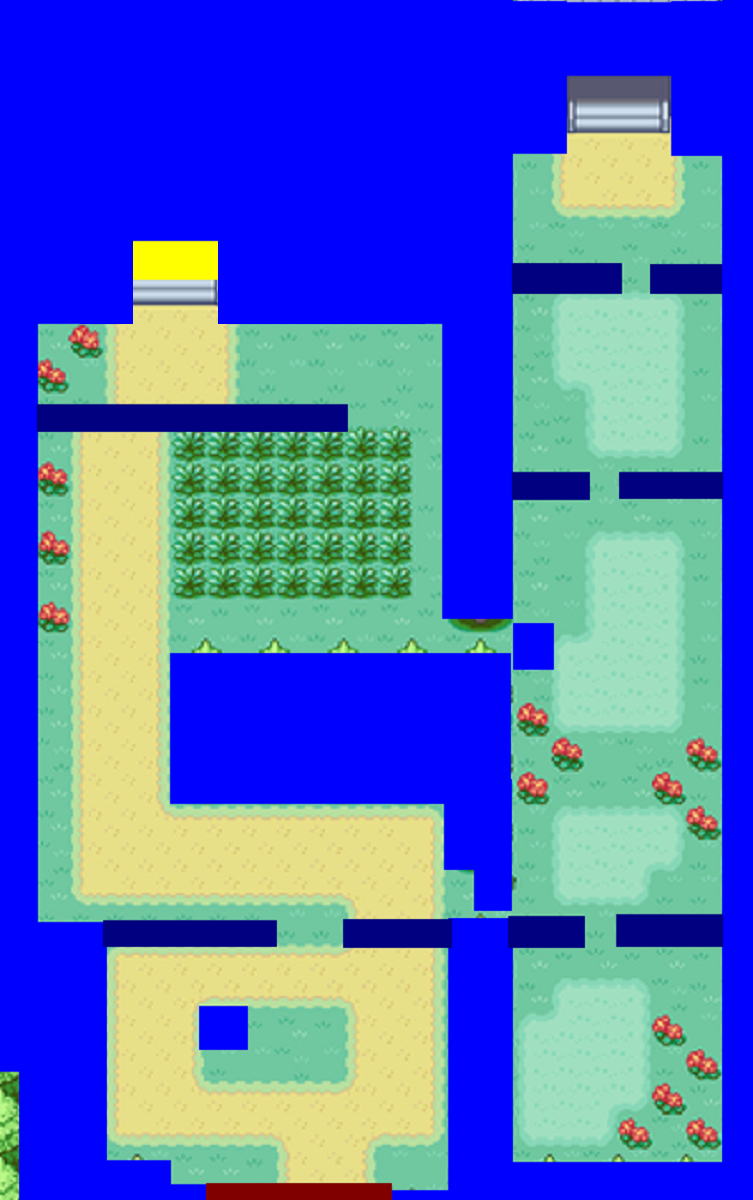
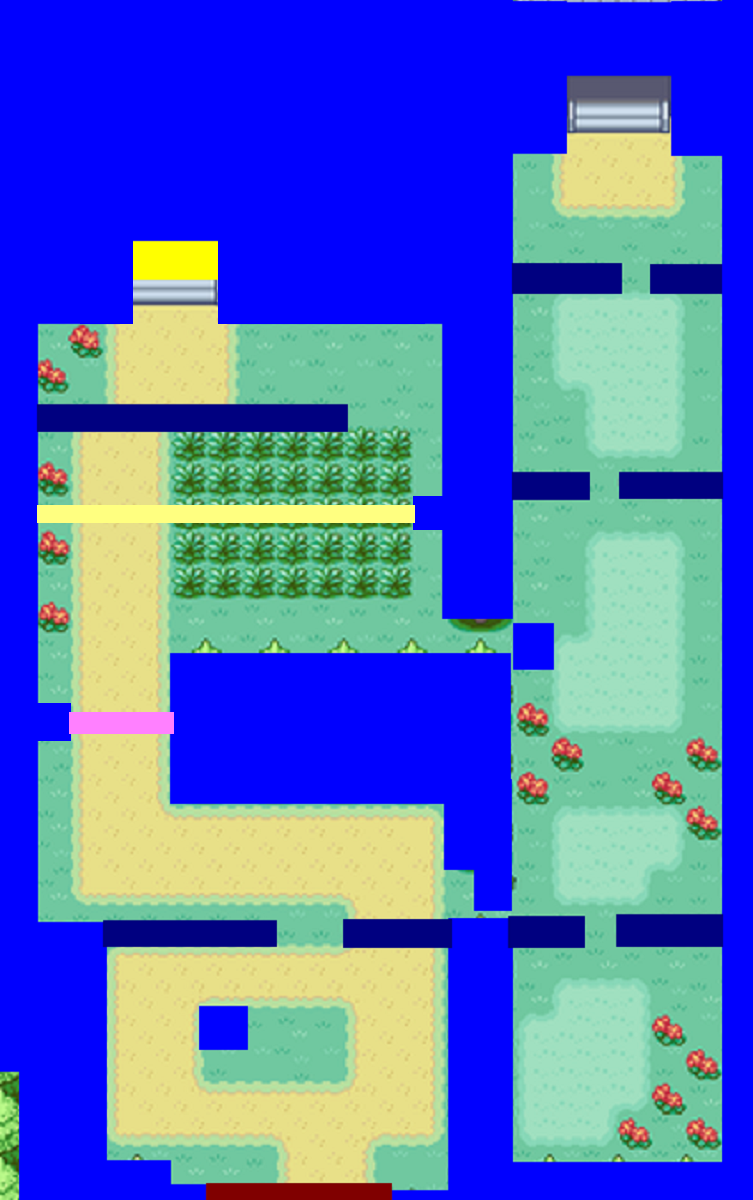
Added battle checks

Changed region(s): [[0.0305, 0.4008, 0.6109, 0.4625], [0.0305, 0.5858, 0.2444, 0.6167]]

diff --git a/src/MasseyMon.java b/src/MasseyMon.java
@@ -125,7 +125,7 @@ class GamePanel extends JPanel {
 	private boolean pokemon;
 	private boolean bag;
 	private boolean menu;
-	private boolean spacePressed,movable,talking,startGame;
+	private boolean spacePressed,movable,talking,startGame,hasStarter;
 	private int direction;
 	private boolean ready = true;
 	private static boolean mini,starter;
@@ -164,6 +164,7 @@ class GamePanel extends JPanel {
 		starterIndex = 0;
 		picIndex = 0;
 		miniPicIndex = -1;
+		hasStarter = false;
 		spacePressed = false;
 		pokemon = false;
 		bag = false;
@@ -243,7 +244,7 @@ class GamePanel extends JPanel {
 					startGame = false;
 				}
 			}
-
+			myGuy.draw(g);
 			if (picIndex == 0 && miniPicIndex == 1) {
 				if (Textbox.getTextWriting()) {
 					if (talking) {
@@ -265,6 +266,7 @@ class GamePanel extends JPanel {
 							g.drawImage(selectBox, 350, 250, this);
 							g.drawImage(starters[starterIndex], 420, 300, this);
 							movable = false;
+							hasStarter = true;
 						}
 					}
 				}
@@ -300,7 +302,6 @@ class GamePanel extends JPanel {
 					movable = true;
 				}
 			}
-			myGuy.draw(g);
 
 			if (movable) {
 				if (picIndex == 0 && miniPicIndex == 1) {
@@ -308,18 +309,17 @@ class GamePanel extends JPanel {
 				}
 				if (pokeCenter()) {
 					g.drawImage(MasseyMon.getTrainers(1).getSprite(), 462, 290, this);
+					myGuy.draw(g);
 				}
 				if (pokeShop()) {
 					g.drawImage(MasseyMon.getTrainers(2).getSprite(), 358, 350, this);
+					myGuy.draw(g);
 				}
 				if (pokeHouse()) {
 					g.drawImage(MasseyMon.getTrainers(npc1).getSprite(), 407, 385, this);
 					g.drawImage(MasseyMon.getTrainers(npc2).getSprite(), 612, 360, this);
+					myGuy.draw(g);
 				}
-
-			//	if (picIndex == 1 || picIndex == 3 || picIndex == 4 || picIndex == 5 || picIndex == 7 || picIndex == 9 || picIndex == 10 || picIndex == 11)
-				//	g.drawImage(MasseyMon.getBattleTrainers(picIndex, 0).getSprite(), MasseyMon.getBattleTrainers(picIndex, 0).getPositionX(), MasseyMon.getBattleTrainers(picIndex, 0).getPositionY(), this);
-				//g.drawImage(MasseyMon.getBattleTrainers(picIndex, 1).getSprite(), MasseyMon.getBattleTrainers(picIndex, 1).getPositionX(), MasseyMon.getBattleTrainers(picIndex, 1).getPositionY(), this);
 			}
 		}
 		else{
@@ -498,32 +498,32 @@ class GamePanel extends JPanel {
 						myGuy.setScreenY(MasseyMon.getMiniMap(picIndex, miniPicIndex).getStartPosY());
 						myGuy.setScreenX(MasseyMon.getMiniMap(picIndex, miniPicIndex).getStartPosX());
 					} else if (checkNextRoute(myGuy.getWorldX(), myGuy.getWorldY() - 1, myGuy.getWorldX() + 20, myGuy.getWorldY() - 1)) {
-						picIndex += 1;
-						myGuy.setWorldX(MasseyMon.getMap(picIndex).getStartPosX());
-						myGuy.setWorldY(MasseyMon.getMap(picIndex).getStartPosY());
-						if (MasseyMon.getMap(picIndex).getMapHeight() > 795) {
+						//if (hasStarter) {
+							picIndex += 1;
+							myGuy.setWorldX(MasseyMon.getMap(picIndex).getStartPosX());
+							myGuy.setWorldY(MasseyMon.getMap(picIndex).getStartPosY());
+							if (MasseyMon.getMap(picIndex).getMapHeight() > 795) {
 
-							if (myGuy.getWorldY() == 397 || myGuy.getWorldY() == 900 || myGuy.getWorldY() == 860) {
-								myGuy.setScreenY(398);
-							}
+								if (myGuy.getWorldY() == 397 || myGuy.getWorldY() == 900 || myGuy.getWorldY() == 860) {
+									myGuy.setScreenY(398);
+								} else if (myGuy.getWorldY() - 398 > 0 || myGuy.getWorldY() + 398 < MasseyMon.getMap(picIndex).getMapHeight()) {
+									myGuy.setScreenY(795 - (MasseyMon.getMap(picIndex).getMapHeight() - MasseyMon.getMap(picIndex).getStartPosY()));
 
-							else if (myGuy.getWorldY() - 398 > 0 || myGuy.getWorldY() + 398 < MasseyMon.getMap(picIndex).getMapHeight()) {
-								myGuy.setScreenY(795 - (MasseyMon.getMap(picIndex).getMapHeight() - MasseyMon.getMap(picIndex).getStartPosY()));
-
+								} else {
+									myGuy.setScreenY(795 - (MasseyMon.getMap(picIndex).getMapHeight() - MasseyMon.getMap(picIndex).getStartPosY()));
+								}
 							} else {
-								myGuy.setScreenY(795 - (MasseyMon.getMap(picIndex).getMapHeight() - MasseyMon.getMap(picIndex).getStartPosY()));
+								myGuy.setScreenY(MasseyMon.getMap(picIndex).getStartPosY());
 							}
-						} else {
-							myGuy.setScreenY(MasseyMon.getMap(picIndex).getStartPosY());
-						}
-						if (MasseyMon.getMap(picIndex).getMapWidth() > 956) {
-							if (myGuy.getWorldX() - 478 > 0 || myGuy.getWorldY() + 478 < MasseyMon.getMap(picIndex).getMapWidth()) {
-								myGuy.setScreenX(478);
+							if (MasseyMon.getMap(picIndex).getMapWidth() > 956) {
+								if (myGuy.getWorldX() - 478 > 0 || myGuy.getWorldY() + 478 < MasseyMon.getMap(picIndex).getMapWidth()) {
+									myGuy.setScreenX(478);
+								} else {
+									myGuy.setScreenX(956 - (MasseyMon.getMap(picIndex).getMapWidth() - MasseyMon.getMap(picIndex).getStartPosX()));
+								}
 							} else {
-								myGuy.setScreenX(956 - (MasseyMon.getMap(picIndex).getMapWidth() - MasseyMon.getMap(picIndex).getStartPosX()));
-							}
-						} else {
-							myGuy.setScreenX(MasseyMon.getMap(picIndex).getStartPosX());
+								myGuy.setScreenX(MasseyMon.getMap(picIndex).getStartPosX());
+						//	}
 						}
 					}
 					else if (checkPrevRoute(myGuy.getWorldX(), myGuy.getWorldY() - 1, myGuy.getWorldX() + 20, myGuy.getWorldY() - 1)) {
@@ -550,6 +550,21 @@ class GamePanel extends JPanel {
 						} else {
 							myGuy.setScreenX(MasseyMon.getMap(picIndex).getStartPosX7());
 						}
+					}
+					if (checkTrainer1(myGuy.getWorldX(), myGuy.getWorldY() - 1, myGuy.getWorldX() + 20, myGuy.getWorldY() - 1)){
+
+					}
+					if (checkTrainer2(myGuy.getWorldX(), myGuy.getWorldY() - 1, myGuy.getWorldX() + 20, myGuy.getWorldY() - 1)){
+
+					}
+					if (checkTrainer3(myGuy.getWorldX(), myGuy.getWorldY() - 1, myGuy.getWorldX() + 20, myGuy.getWorldY() - 1)){
+
+					}
+					if (checkTrainer4(myGuy.getWorldX(), myGuy.getWorldY() - 1, myGuy.getWorldX() + 20, myGuy.getWorldY() - 1)){
+
+					}
+					if (checkTrainer5(myGuy.getWorldX(), myGuy.getWorldY() - 1, myGuy.getWorldX() + 20, myGuy.getWorldY() - 1)){
+
 					}
 
 				} else if ((keys[KeyEvent.VK_DOWN] || keys[KeyEvent.VK_S]) && clear(myGuy.getWorldX(), myGuy.getWorldY() + 27, myGuy.getWorldX() + 19, myGuy.getWorldY() + 27) && (checkLedge(myGuy.getWorldX(), myGuy.getWorldY() + 27, myGuy.getWorldX() + 19, myGuy.getWorldY() + 27)
@@ -731,6 +746,19 @@ class GamePanel extends JPanel {
 							myGuy.setScreenX(MasseyMon.getMap(picIndex).getStartPosX());
 						}
 					}
+					if (checkTrainer1(myGuy.getWorldX(), myGuy.getWorldY() - 1, myGuy.getWorldX() + 20, myGuy.getWorldY() - 1)){
+
+					}
+					if (checkTrainer2(myGuy.getWorldX(), myGuy.getWorldY() - 1, myGuy.getWorldX() + 20, myGuy.getWorldY() - 1)){
+
+					}
+					if (checkTrainer4(myGuy.getWorldX(), myGuy.getWorldY() - 1, myGuy.getWorldX() + 20, myGuy.getWorldY() - 1)){
+
+					}
+					if (checkTrainer6(myGuy.getWorldX(), myGuy.getWorldY() - 1, myGuy.getWorldX() + 20, myGuy.getWorldY() - 1)){
+
+					}
+
 				} else if ((keys[KeyEvent.VK_RIGHT] || keys[KeyEvent.VK_D]) && clear(myGuy.getWorldX() + 20, myGuy.getWorldY(), myGuy.getWorldX() + 20, myGuy.getWorldY() + 26) && (checkLedge(myGuy.getWorldX() + 20, myGuy.getWorldY(), myGuy.getWorldX() + 20, myGuy.getWorldY() + 20)
 						&& checkLedgeLeft(myGuy.getWorldX() + 20, myGuy.getWorldY(), myGuy.getWorldX() + 20, myGuy.getWorldY() + 20) && checkLedgeRight(myGuy.getWorldX() + 20, myGuy.getWorldY(), myGuy.getWorldX() + 20, myGuy.getWorldY() + 20))) {
 					direction = RIGHT;
@@ -791,6 +819,15 @@ class GamePanel extends JPanel {
 						} else {
 							myGuy.setScreenX(MasseyMon.getMap(picIndex).getStartPosX7());
 						}
+					}
+					if (checkTrainer1(myGuy.getWorldX(), myGuy.getWorldY() - 1, myGuy.getWorldX() + 20, myGuy.getWorldY() - 1)){
+
+					}
+					if (checkTrainer2(myGuy.getWorldX(), myGuy.getWorldY() - 1, myGuy.getWorldX() + 20, myGuy.getWorldY() - 1)){
+
+					}
+					if (checkTrainer3(myGuy.getWorldX(), myGuy.getWorldY() - 1, myGuy.getWorldX() + 20, myGuy.getWorldY() - 1)){
+
 					}
 				} else if ((keys[KeyEvent.VK_LEFT] || keys[KeyEvent.VK_A]) && clear(myGuy.getWorldX() - 1, myGuy.getWorldY(), myGuy.getWorldX() - 1, myGuy.getWorldY() + 26) && (checkLedge(myGuy.getWorldX() - 1, myGuy.getWorldY(), myGuy.getWorldX() - 1, myGuy.getWorldY() + 20)
 						&& checkLedgeLeft(myGuy.getWorldX() - 1, myGuy.getWorldY(), myGuy.getWorldX() - 1, myGuy.getWorldY() + 20) && checkLedgeRight(myGuy.getWorldX() - 1, myGuy.getWorldY(), myGuy.getWorldX() - 1, myGuy.getWorldY() + 20))) {
@@ -853,12 +890,15 @@ class GamePanel extends JPanel {
 							myGuy.setScreenX(MasseyMon.getMap(picIndex).getStartPosX());
 						}
 					}
+					if (checkTrainer4(myGuy.getWorldX(), myGuy.getWorldY() - 1, myGuy.getWorldX() + 20, myGuy.getWorldY() - 1)){
+
+					}
 
 				} else {
 					myGuy.resetExtra();
 					myGuy.idle(direction);
 
-					if (direction == UP){
+					if (direction == UP && (hasStarter || mini)){
 						if (checkTalk(myGuy.getWorldX()+7, myGuy.getWorldY() - 20, myGuy.getWorldX() + 14, myGuy.getWorldY() - 20)){
 							talking = true;
 						}
@@ -1165,6 +1205,70 @@ class GamePanel extends JPanel {
 		return c == WALL && d==WALL && spacePressed;
 	}
 
+	private boolean checkTrainer1 ( int x, int y, int x2,int y2){
+		BufferedImage maskPic = MasseyMon.getMap(picIndex).getMask();
+		int posX = MasseyMon.getMap(picIndex).getMapX();
+		int posY =  MasseyMon.getMap(picIndex).getMapY();
+
+		int WALL = 0xFFFF80FF;
+		int c = maskPic.getRGB(x - posX, y - posY);
+		int d = maskPic.getRGB(x2 - posX, y2 - posY);
+		return c == WALL && d==WALL;
+	}
+	private boolean checkTrainer2 ( int x, int y, int x2,int y2){
+		BufferedImage maskPic = MasseyMon.getMap(picIndex).getMask();
+		int posX = MasseyMon.getMap(picIndex).getMapX();
+		int posY =  MasseyMon.getMap(picIndex).getMapY();
+
+		int WALL = 0xFFFFFF80;
+		int c = maskPic.getRGB(x - posX, y - posY);
+		int d = maskPic.getRGB(x2 - posX, y2 - posY);
+		return c == WALL && d==WALL;
+	}
+	private boolean checkTrainer3 ( int x, int y, int x2,int y2){
+		BufferedImage maskPic = MasseyMon.getMap(picIndex).getMask();
+		int posX = MasseyMon.getMap(picIndex).getMapX();
+		int posY =  MasseyMon.getMap(picIndex).getMapY();
+
+		int WALL = 0xFF0080FF;
+		int c = maskPic.getRGB(x - posX, y - posY);
+		int d = maskPic.getRGB(x2 - posX, y2 - posY);
+		return c == WALL && d==WALL;
+	}
+	private boolean checkTrainer4 ( int x, int y, int x2,int y2){
+		BufferedImage maskPic = MasseyMon.getMap(picIndex).getMask();
+		int posX = MasseyMon.getMap(picIndex).getMapX();
+		int posY =  MasseyMon.getMap(picIndex).getMapY();
+
+		int WALL = 0xFFFF0080;
+		int c = maskPic.getRGB(x - posX, y - posY);
+		int d = maskPic.getRGB(x2 - posX, y2 - posY);
+		return c == WALL && d==WALL;
+	}
+	private boolean checkTrainer5 ( int x, int y, int x2,int y2){
+		BufferedImage maskPic = MasseyMon.getMap(picIndex).getMask();
+		int posX = MasseyMon.getMap(picIndex).getMapX();
+		int posY =  MasseyMon.getMap(picIndex).getMapY();
+
+		int WALL = 0xFF00FF80;
+		int c = maskPic.getRGB(x - posX, y - posY);
+		int d = maskPic.getRGB(x2 - posX, y2 - posY);
+		return c == WALL && d==WALL;
+	}
+	private boolean checkTrainer6 ( int x, int y, int x2,int y2){
+		BufferedImage maskPic = MasseyMon.getMap(picIndex).getMask();
+		int posX = MasseyMon.getMap(picIndex).getMapX();
+		int posY =  MasseyMon.getMap(picIndex).getMapY();
+
+		int WALL = 0xFF8000FF;
+		int c = maskPic.getRGB(x - posX, y - posY);
+		int d = maskPic.getRGB(x2 - posX, y2 - posY);
+		return c == WALL && d==WALL;
+	}
+
+
+
+
 
 	public boolean getMenu () {
 		return menu;
@@ -1175,14 +1279,14 @@ class GamePanel extends JPanel {
 	}
 
 	public boolean pokeCenter (){
-		if (picIndex == 2 && miniPicIndex == 0 || picIndex == 6 && miniPicIndex == 0 || picIndex == 8 && miniPicIndex == 0){
+		if (picIndex == 2 && miniPicIndex == 0 || picIndex == 6 && miniPicIndex == 0 || picIndex == 8 && miniPicIndex == 0 || picIndex == 12 && miniPicIndex == 0){
 			return true;
 		}
 		return false;
 	}
 
 	public boolean pokeShop(){
-		if (picIndex == 2 && miniPicIndex == 1 || picIndex == 6 && miniPicIndex == 1){
+		if (picIndex == 2 && miniPicIndex == 1 || picIndex == 6 && miniPicIndex == 1 || picIndex == 12 && miniPicIndex == 1){
 			return true;
 		}
 		return false;

diff --git a/src/Textbox.java b/src/Textbox.java
@@ -10,8 +10,8 @@ public class Textbox {
     private static int count, textX, textY,pauseCount,box,arraySize,temp;
     private static boolean boxFull,textWriting;
     private static Image textBox;
-    private static String[][] words = new String[4][2];
-    private static int [] wordLen = new int [8];
+    private static String[][] words = new String[5][2];
+    private static int [] wordLen = new int [10];
 
     public Textbox() throws IOException {
         arraySize = 0;
@@ -25,7 +25,7 @@ public class Textbox {
         textBox = ImageIO.read(new File("Images/Text/Textbox.png"));
 
         Scanner inFile = new Scanner(new BufferedReader(new FileReader("Data/Textbox")));
-        for (int i = 0; i < 4; i++) {
+        for (int i = 0; i < 5; i++) {
             for (int k = 0; k<2; k++) {
                 String line = inFile.nextLine();
                 words[i][k] = line;
@@ -33,7 +33,7 @@ public class Textbox {
         }
 
         Scanner myFile = new Scanner(new BufferedReader(new FileReader("Data/TextboxCharacterLength")));
-        for (int i = 0; i < 8; i++) {
+        for (int i = 0; i < 10; i++) {
             int val = myFile.nextInt();
             wordLen[i] = val;
         }

diff --git a/src/NPC.java b/src/NPC.java
@@ -13,14 +13,12 @@ import java.util.Scanner;
 public class NPC{
     private Image sprite;
     private boolean battlable;
-    private int positionX,positionY;
+    private boolean talkable;
 
     public NPC(Image pic) {
-       // String positions [] = line.split(",");
         sprite = pic;
         battlable = true;
-      //  positionX = Integer.parseInt(positions[0]);
-      //  positionY = Integer.parseInt(positions[1]);
+        talkable = true;
     }
 
     public Image getSprite() {
@@ -29,13 +27,5 @@ public class NPC{
 
     public boolean getBattlable() {
         return battlable;
-    }
-
-    public int getPositionX(){
-        return positionX;
-    }
-
-    public int getPositionY(){
-        return positionY;
     }
 }
